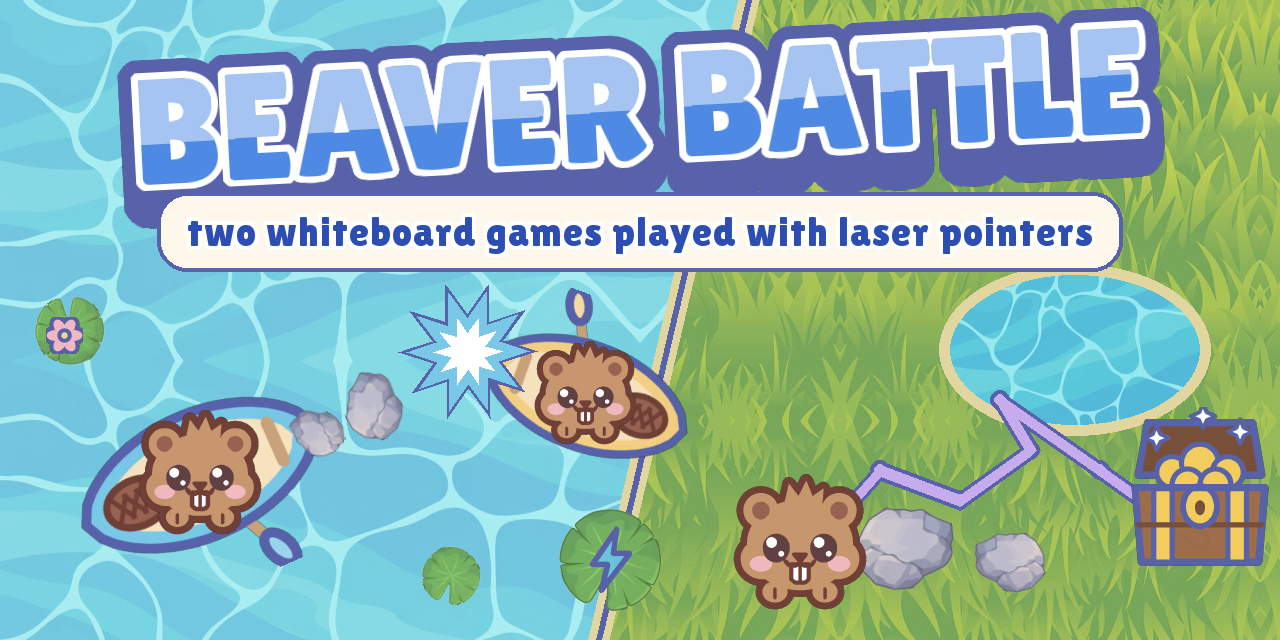
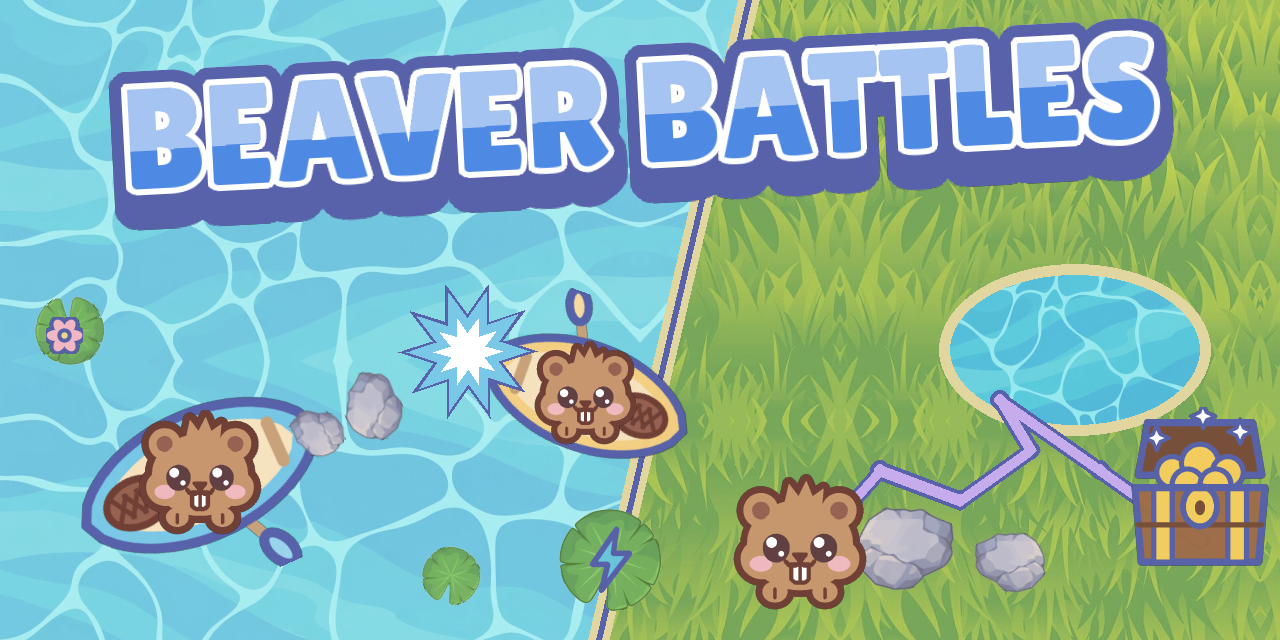
Thumbnail: title reads BEAVER BATTLES, subtitle strip removed

Changed region(s): [[0.0625, 0.0, 0.9375, 0.4375]]

diff --git a/checks/make_thumbnail.py b/checks/make_thumbnail.py
@@ -74,13 +74,8 @@ def main():
     put(image, sprites.chest(62, 2.2, open_lid=True), (1200, 500))
     put(image, sprites.tim(19, 2.8), (800, 545))
 
-    title = sprites.label("BEAVER BATTLE", 150, sprites.BLUE_BRIGHT, tilt=3)
-    put(image, title, (WIDTH // 2, 118))
-    words = sprites.sign("two whiteboard games played with laser pointers", 40)
-    plate = words.get_rect(center=(WIDTH // 2, 232)).inflate(44, 18)
-    pygame.draw.rect(image, sprites.INK, plate.inflate(8, 8), border_radius=30)
-    pygame.draw.rect(image, sprites.CREAM, plate, border_radius=26)
-    put(image, words, plate.center)
+    title = sprites.label("BEAVER BATTLES", 142, sprites.BLUE_BRIGHT, tilt=3)
+    put(image, title, (WIDTH // 2, 124))
 
     out = Path(__file__).resolve().parents[1] / "docs" / "thumbnail.png"
     pygame.image.save(image, out)

diff --git a/README.md b/README.md
@@ -1,6 +1,6 @@
 # Beaver Battle
 
-![Beaver Battle: two whiteboard games played with laser pointers](docs/thumbnail.png)
+![Beaver Battles](docs/thumbnail.png)
 
 A projection-mapped canoe battle for two or three red-laser controllers. Python runs the game, USB camera, calibration, and UDP networking. ESP-IDF C runs the two buttons, laser output, and servo feedback on each ESP32 DevKit V1.
 
